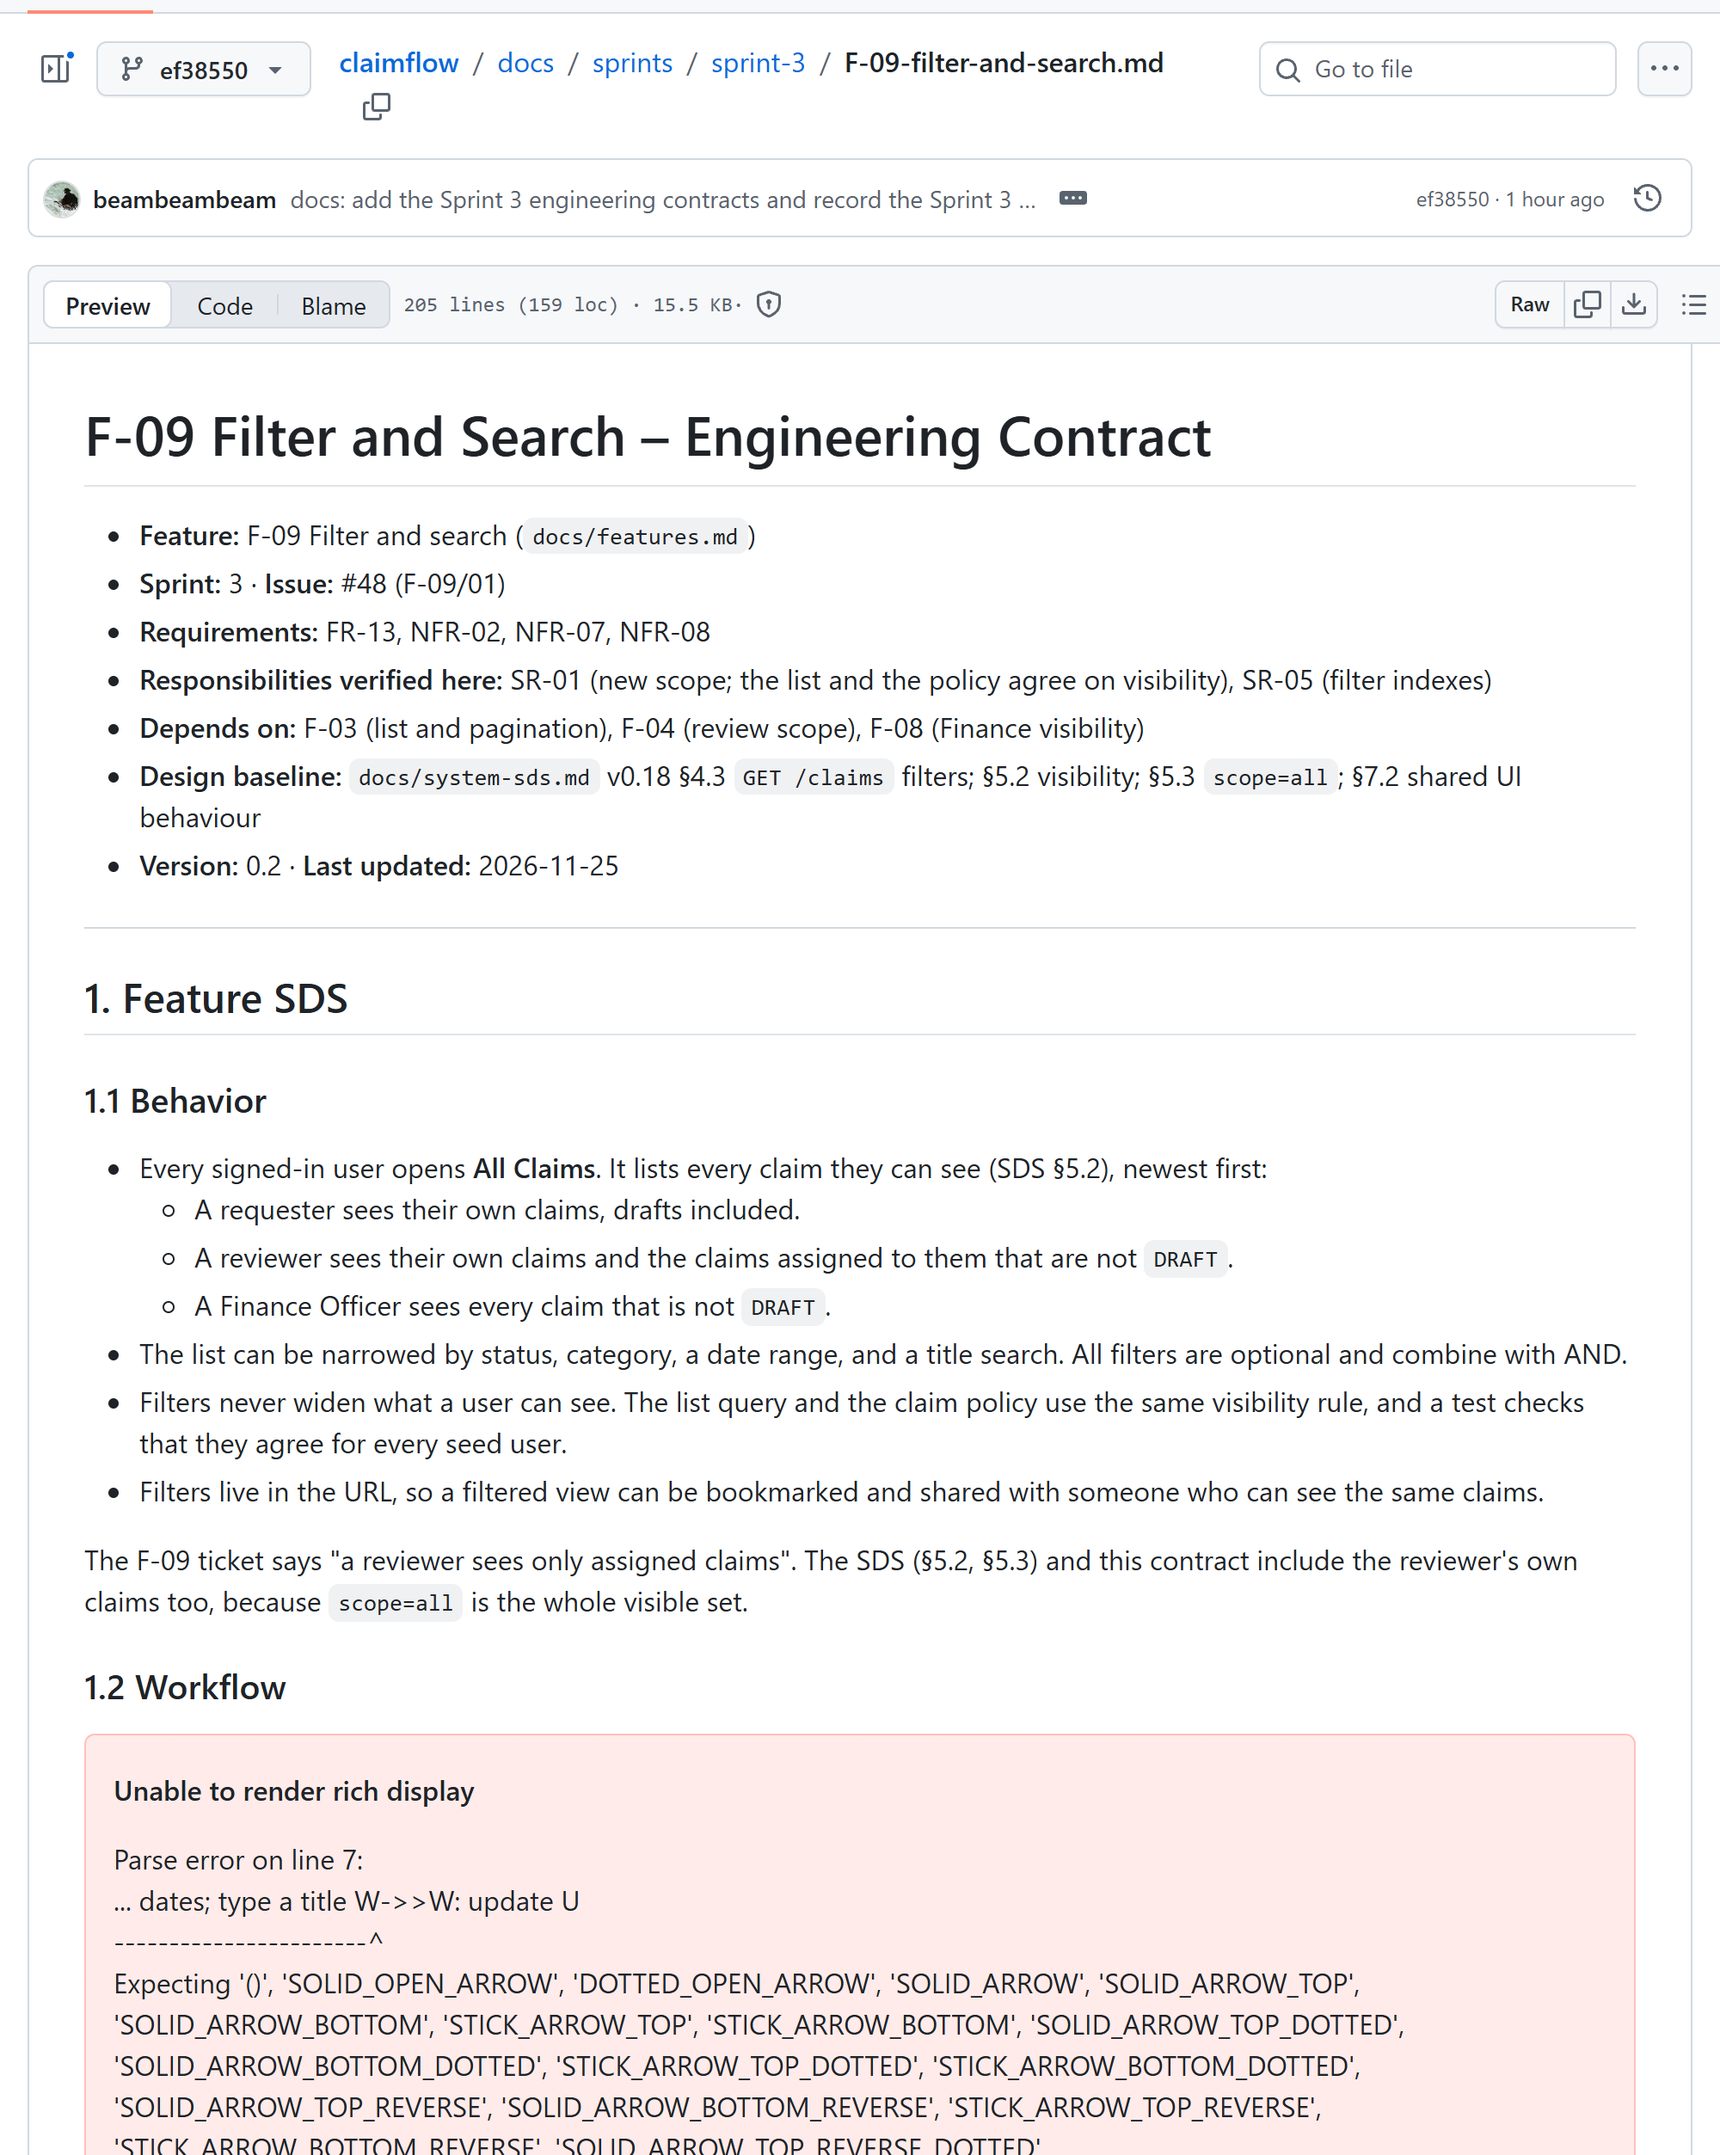
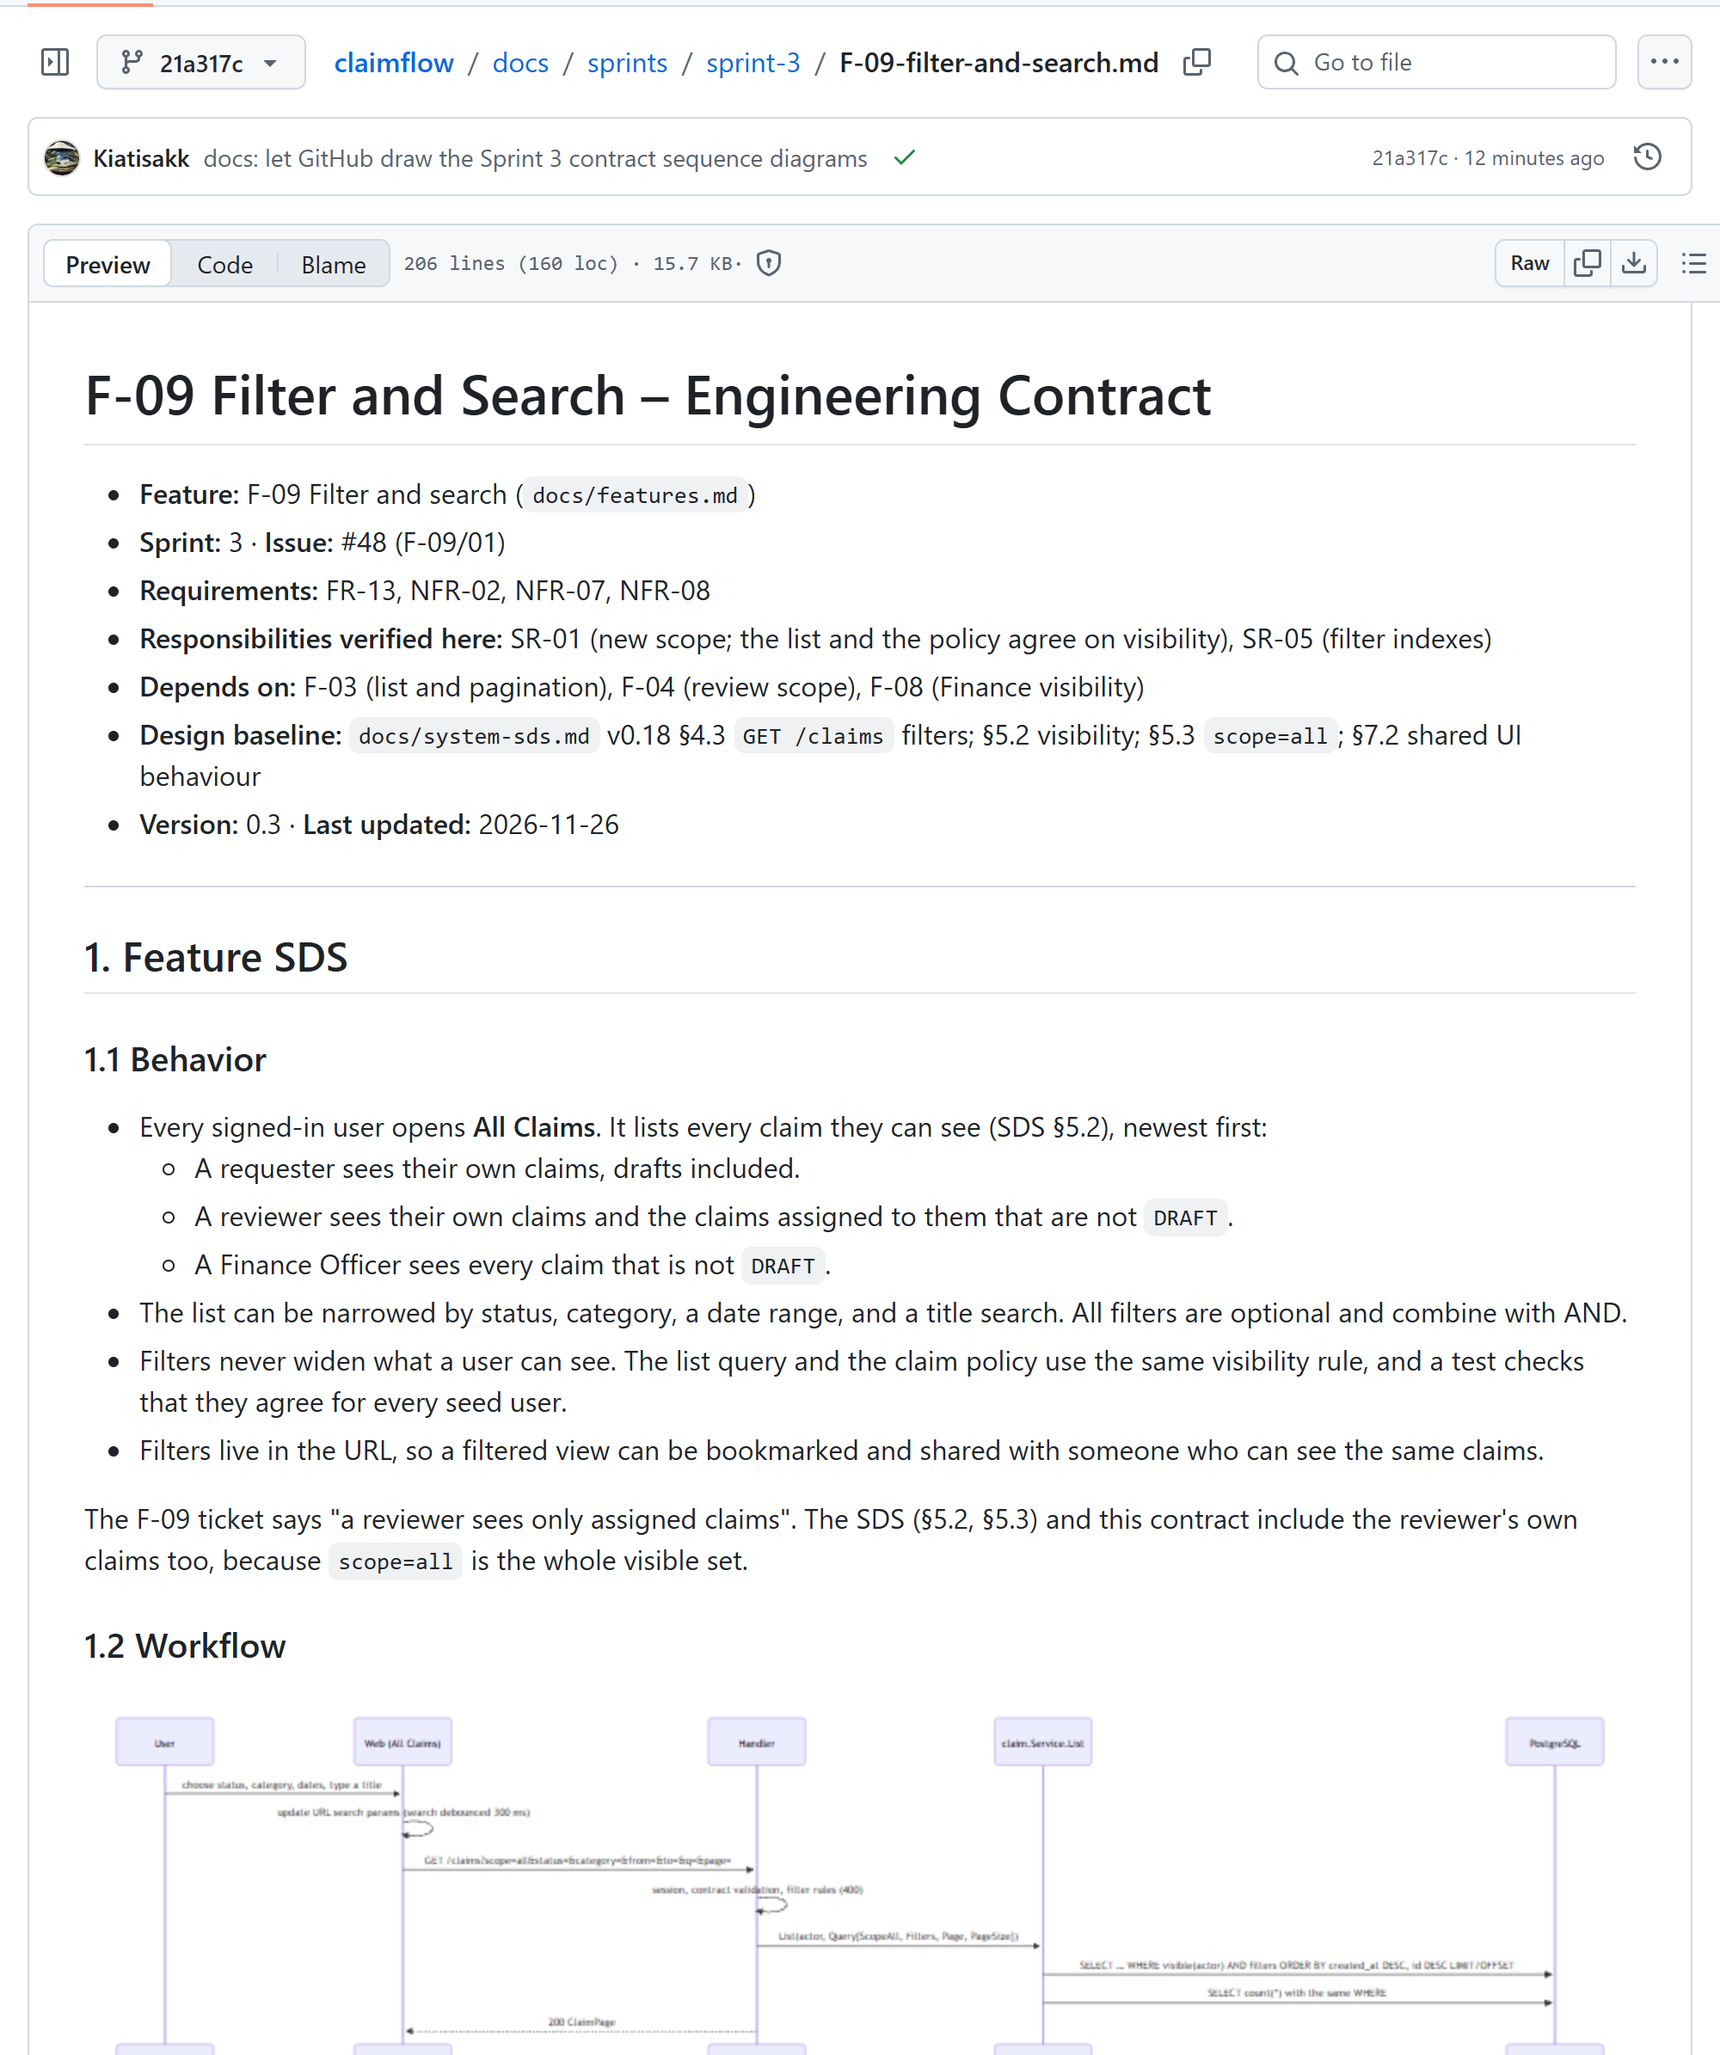
docs: recapture the Sprint 3 contract pieces and diagrams from the diagram fix

diff --git a/docs/reports/sprints/02/content/part-c-1-contracts.tex b/docs/reports/sprints/02/content/part-c-1-contracts.tex
@@ -2,16 +2,15 @@
 
 \partsection{F-08 contract}{}
 \docsource{docs/sprints/sprint-3/F-08-two-stage-approval.md}{docs/sprint-3-mermaid-semicolons}{21a317c}
-\evidencepart{figures/docs/f08-p1.png}{\detokenize{docs/sprints/sprint-3/F-08-two-stage-approval.md, piece 1 of 10}}
-\evidencepart{figures/docs/f08-p2.png}{\detokenize{docs/sprints/sprint-3/F-08-two-stage-approval.md, piece 2 of 10}}
-\evidencepart{figures/docs/f08-p3.png}{\detokenize{docs/sprints/sprint-3/F-08-two-stage-approval.md, piece 3 of 10}}
-\evidencepart{figures/docs/f08-p4.png}{\detokenize{docs/sprints/sprint-3/F-08-two-stage-approval.md, piece 4 of 10}}
-\evidencepart{figures/docs/f08-p5.png}{\detokenize{docs/sprints/sprint-3/F-08-two-stage-approval.md, piece 5 of 10}}
-\evidencepart{figures/docs/f08-p6.png}{\detokenize{docs/sprints/sprint-3/F-08-two-stage-approval.md, piece 6 of 10}}
-\evidencepart{figures/docs/f08-p7.png}{\detokenize{docs/sprints/sprint-3/F-08-two-stage-approval.md, piece 7 of 10}}
-\evidencepart{figures/docs/f08-p8.png}{\detokenize{docs/sprints/sprint-3/F-08-two-stage-approval.md, piece 8 of 10}}
-\evidencepart{figures/docs/f08-p9.png}{\detokenize{docs/sprints/sprint-3/F-08-two-stage-approval.md, piece 9 of 10}}
-\evidencepart{figures/docs/f08-p10.png}{\detokenize{docs/sprints/sprint-3/F-08-two-stage-approval.md, piece 10 of 10}}
+\evidencepart{figures/docs/f08-p1.png}{\detokenize{docs/sprints/sprint-3/F-08-two-stage-approval.md, piece 1 of 9}}
+\evidencepart{figures/docs/f08-p2.png}{\detokenize{docs/sprints/sprint-3/F-08-two-stage-approval.md, piece 2 of 9}}
+\evidencepart{figures/docs/f08-p3.png}{\detokenize{docs/sprints/sprint-3/F-08-two-stage-approval.md, piece 3 of 9}}
+\evidencepart{figures/docs/f08-p4.png}{\detokenize{docs/sprints/sprint-3/F-08-two-stage-approval.md, piece 4 of 9}}
+\evidencepart{figures/docs/f08-p5.png}{\detokenize{docs/sprints/sprint-3/F-08-two-stage-approval.md, piece 5 of 9}}
+\evidencepart{figures/docs/f08-p6.png}{\detokenize{docs/sprints/sprint-3/F-08-two-stage-approval.md, piece 6 of 9}}
+\evidencepart{figures/docs/f08-p7.png}{\detokenize{docs/sprints/sprint-3/F-08-two-stage-approval.md, piece 7 of 9}}
+\evidencepart{figures/docs/f08-p8.png}{\detokenize{docs/sprints/sprint-3/F-08-two-stage-approval.md, piece 8 of 9}}
+\evidencepart{figures/docs/f08-p9.png}{\detokenize{docs/sprints/sprint-3/F-08-two-stage-approval.md, piece 9 of 9}}
 \noindent\textit{The 1 diagram of \path{docs/sprints/sprint-3/F-08-two-stage-approval.md}, repeated at full size from the same commit (21a317c):}
 \diagramfull{figures/diagrams/f08-1.png}{\detokenize{docs/sprints/sprint-3/F-08-two-stage-approval.md}, diagram 1 of 1}
 
@@ -25,20 +24,19 @@
 \evidencepart{figures/docs/f09-p6.png}{\detokenize{docs/sprints/sprint-3/F-09-filter-and-search.md, piece 6 of 7}}
 \evidencepart{figures/docs/f09-p7.png}{\detokenize{docs/sprints/sprint-3/F-09-filter-and-search.md, piece 7 of 7}}
 \noindent\textit{The 1 diagram of \path{docs/sprints/sprint-3/F-09-filter-and-search.md}, repeated at full size from the same commit (21a317c):}
-\diagramfull{figures/diagrams/f09-1.png}{\detokenize{docs/sprints/sprint-3/F-09-filter-and-search.md}, diagram 1 of 1}
+\diagramwide{figures/diagrams/f09-1.png}{\detokenize{docs/sprints/sprint-3/F-09-filter-and-search.md}, diagram 1 of 1}
 
 \partsection{F-10 contract}{}
 \docsource{docs/sprints/sprint-3/F-10-decision-summaries.md}{docs/sprint-3-mermaid-semicolons}{21a317c}
-\evidencepart{figures/docs/f10-p1.png}{\detokenize{docs/sprints/sprint-3/F-10-decision-summaries.md, piece 1 of 8}}
-\evidencepart{figures/docs/f10-p2.png}{\detokenize{docs/sprints/sprint-3/F-10-decision-summaries.md, piece 2 of 8}}
-\evidencepart{figures/docs/f10-p3.png}{\detokenize{docs/sprints/sprint-3/F-10-decision-summaries.md, piece 3 of 8}}
-\evidencepart{figures/docs/f10-p4.png}{\detokenize{docs/sprints/sprint-3/F-10-decision-summaries.md, piece 4 of 8}}
-\evidencepart{figures/docs/f10-p5.png}{\detokenize{docs/sprints/sprint-3/F-10-decision-summaries.md, piece 5 of 8}}
-\evidencepart{figures/docs/f10-p6.png}{\detokenize{docs/sprints/sprint-3/F-10-decision-summaries.md, piece 6 of 8}}
-\evidencepart{figures/docs/f10-p7.png}{\detokenize{docs/sprints/sprint-3/F-10-decision-summaries.md, piece 7 of 8}}
-\evidencepart{figures/docs/f10-p8.png}{\detokenize{docs/sprints/sprint-3/F-10-decision-summaries.md, piece 8 of 8}}
+\evidencepart{figures/docs/f10-p1.png}{\detokenize{docs/sprints/sprint-3/F-10-decision-summaries.md, piece 1 of 7}}
+\evidencepart{figures/docs/f10-p2.png}{\detokenize{docs/sprints/sprint-3/F-10-decision-summaries.md, piece 2 of 7}}
+\evidencepart{figures/docs/f10-p3.png}{\detokenize{docs/sprints/sprint-3/F-10-decision-summaries.md, piece 3 of 7}}
+\evidencepart{figures/docs/f10-p4.png}{\detokenize{docs/sprints/sprint-3/F-10-decision-summaries.md, piece 4 of 7}}
+\evidencepart{figures/docs/f10-p5.png}{\detokenize{docs/sprints/sprint-3/F-10-decision-summaries.md, piece 5 of 7}}
+\evidencepart{figures/docs/f10-p6.png}{\detokenize{docs/sprints/sprint-3/F-10-decision-summaries.md, piece 6 of 7}}
+\evidencepart{figures/docs/f10-p7.png}{\detokenize{docs/sprints/sprint-3/F-10-decision-summaries.md, piece 7 of 7}}
 \noindent\textit{The 1 diagram of \path{docs/sprints/sprint-3/F-10-decision-summaries.md}, repeated at full size from the same commit (21a317c):}
-\diagramfull{figures/diagrams/f10-1.png}{\detokenize{docs/sprints/sprint-3/F-10-decision-summaries.md}, diagram 1 of 1}
+\diagramwide{figures/diagrams/f10-1.png}{\detokenize{docs/sprints/sprint-3/F-10-decision-summaries.md}, diagram 1 of 1}
 
 \partsection{Sprint 3 Definition of Done}{}
 \docsource{docs/sprints/sprint-3/definition-of-done.md}{sprint-3}{ef38550}
